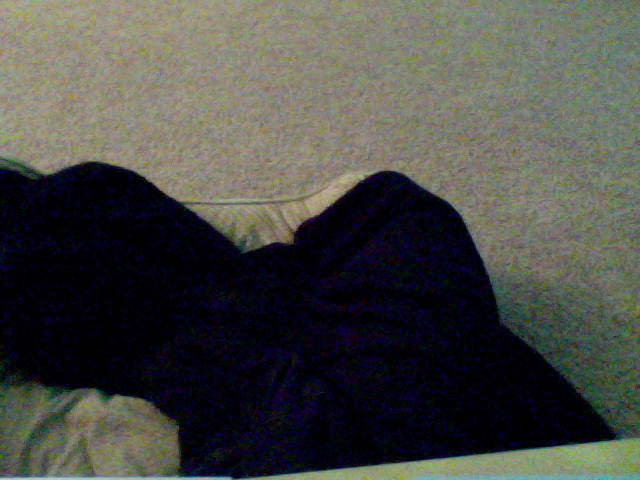
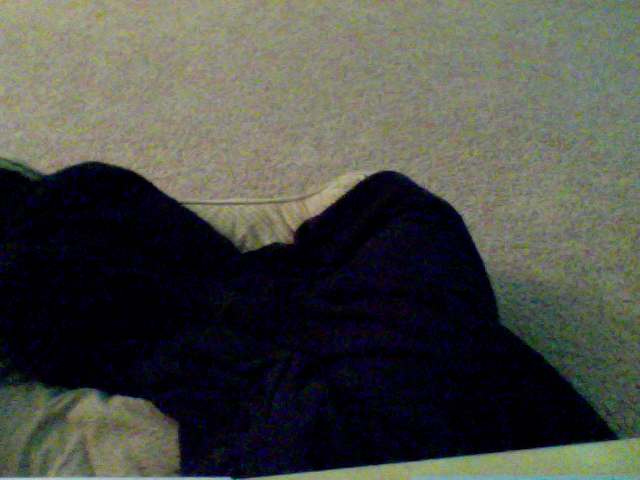
update at Month05Day07Time18:38

Changed region(s): [[0.0, 0.0, 1.0, 1.0], [0.375, 0.1562, 0.4062, 0.1875], [0.125, 0.5938, 0.1562, 0.625]]

diff --git a/index.html b/index.html
@@ -39,8 +39,8 @@
       <!-- Example row of columns -->
       <div class="row">
         <div class="col-md-4">
-	<p>This picture was updated at Month05Day07Time18:37</p>
-		<img src="5_pic.png" />
+	<p>This picture was updated at Month05Day07Time18:38</p>
+		<img src="1_pic.png" />
         </div>
       </div>
 
